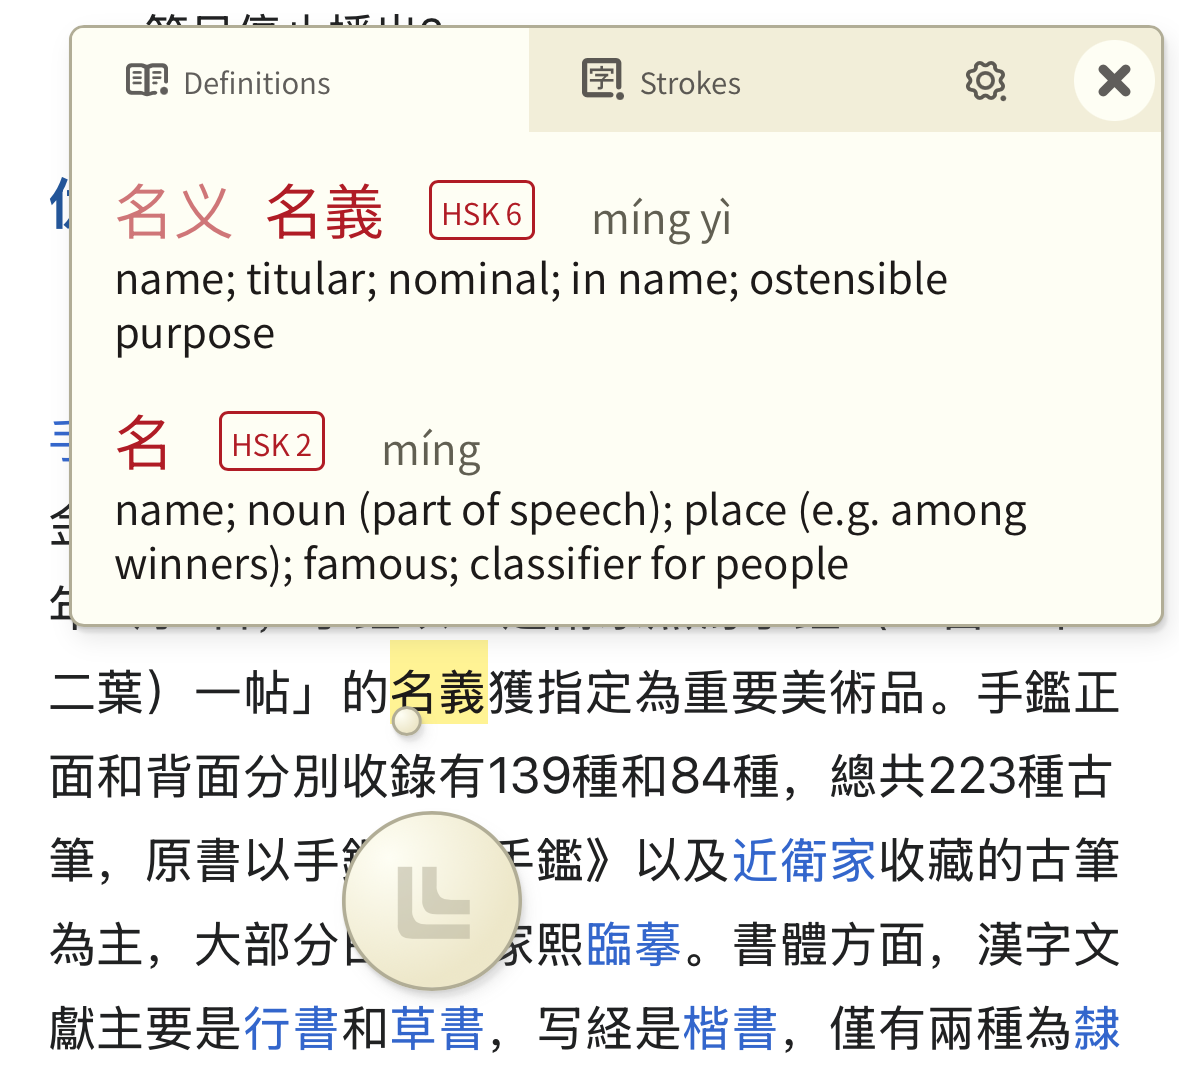
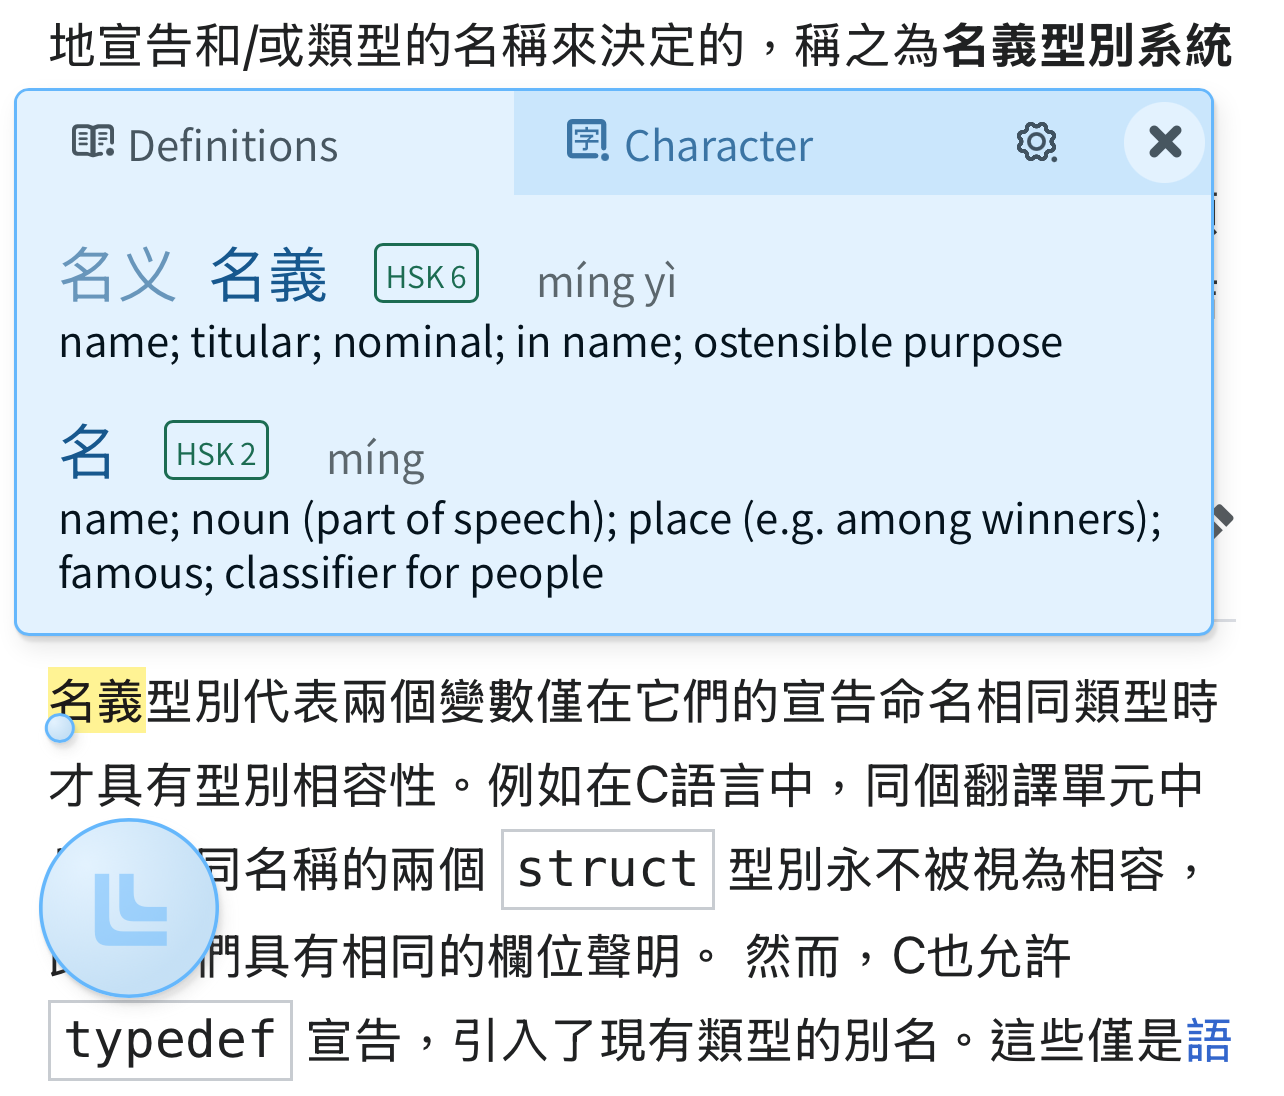
update README.md to demonstrate new Character tab

diff --git a/README.md b/README.md
@@ -37,7 +37,7 @@ LingLook is a browser extension that lets you look up Chinese words by hovering 
 - Look up Chinese words by hovering over them, on both desktop and mobile.
 - Supports both simplified and traditional Chinese characters.
 - Displays the word's definition, pinyin, HSK level, TOCFL level.
-- Displays each character's stroke order.
+- Detailed character information: stroke order animation, frequency, radical, origin, etc.
 - Copy the word to clipboard.
 - Search the word with Google Images.
 - Supports keyboard shortcuts for desktop users.
@@ -50,17 +50,17 @@ LingLook is a browser extension that lets you look up Chinese words by hovering 
 #### On desktop
 
 <div align="center">
-  <img src="docs/definitions.png" alt="definitions"/>
+  <img src="docs/definitions.png" alt="definitions" width="700"/>
   <br>
-  <img src="docs/strokes.gif" alt="strokes"/>
+  <img src="docs/character.gif" alt="character" width="700"/>
   <br>
-  <img src="docs/copy-search.png" alt="copy-search"/>
+  <img src="docs/copy-search.png" alt="copy-search" width="700"/>
 </div>
 
 #### On mobile
 
 <div align="center">
-  <img src="docs/iphone.png" alt="mobile" width="590" />
+  <img src="docs/iphone.png" alt="mobile" width="642" />
 </div>
 
 ## How to use
@@ -73,7 +73,7 @@ LingLook is a browser extension that lets you look up Chinese words by hovering 
   - Double-tap on the puck to switch the lookup direction between up and down.
 - Inside the popup window, you can see the word's definition, pinyin, HSK level, TOCFL level.
   - Click on the word, and you can copy it to clipboard or search it with Google Images.
-- In the "Strokes" tab, click on a character to see its stroke order.
+- Switch to the "Character" tab, here you can play stroke order animation and see other character information like frequency, radical, origin, etc.
 - Clicking on the Settings gear icon will open the extension's settings page. Here you can change various settings including theme, show/hide HSK/TOCFL levels, simplified/traditional character order, dictionary language, keyboard shortcuts, etc.
 - Troubleshooting: If for some reason the extension does not work as expected, try enabling/disabling the extension, reloading the page, or restarting the browser.
 
